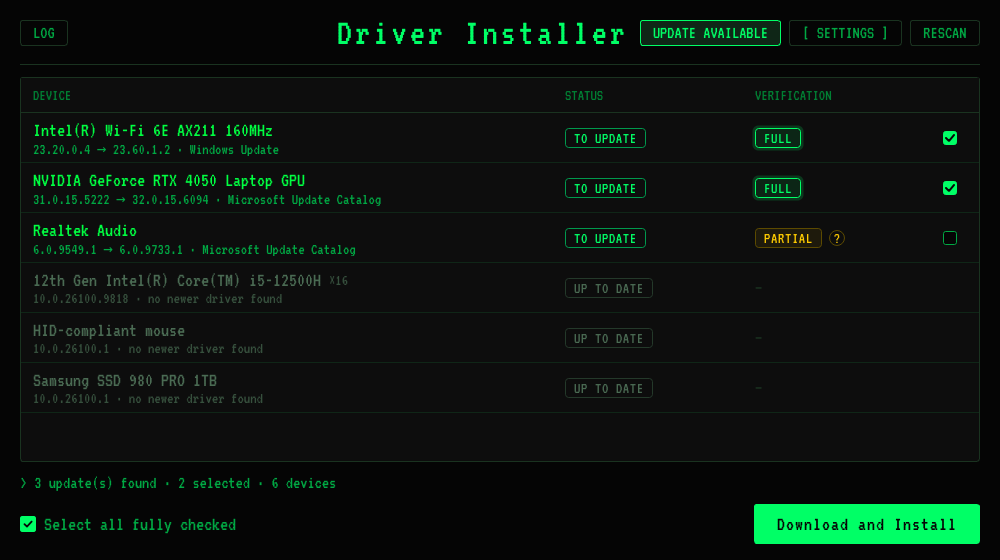
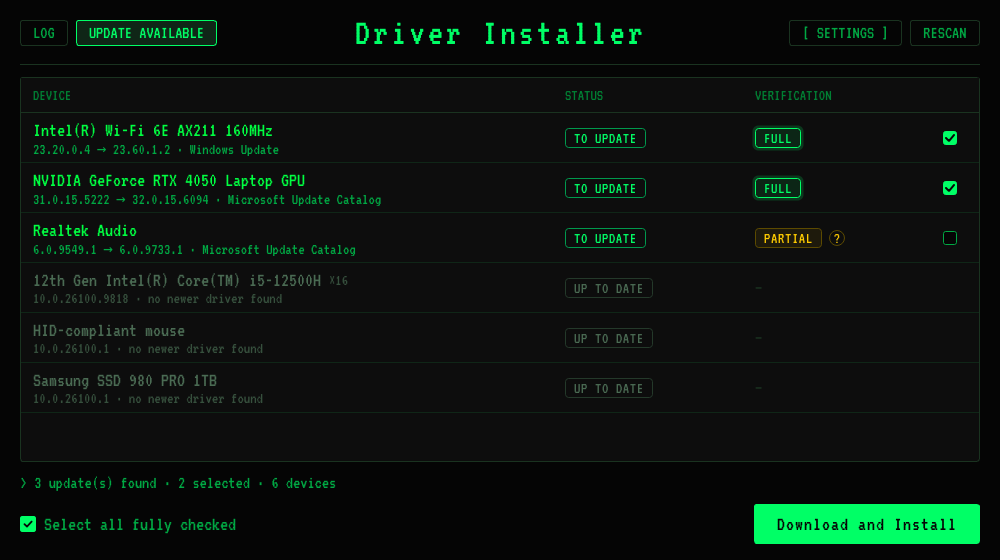
style: move Update available button next to Log in header
UPDATE AVAILABLE now sits on the left, right after LOG, with the same 8 px gap as
[ SETTINGS ] and RESCAN. The header's two side groups get the width of the wider one
(balance_header) and equal stretch, so the title stays centred on the window whether or
not the button is visible. Test for placement, spacing and centring; README screenshot.

Claude-Session: https://claude.ai/code/session_01FNhaAAG19rqQrPkwfX5krX

Changed region(s): [[0.341, 0.0304, 0.806, 0.0911], [0.062, 0.0304, 0.217, 0.0911]]

diff --git a/src/ui/main_window.py b/src/ui/main_window.py
@@ -123,7 +123,7 @@ class MainWindow(QMainWindow):
         layout.setContentsMargins(20, 14, 20, 16)
         layout.setSpacing(12)
 
-        # header: [log]   Driver Installer   [update available] [settings] [rescan]
+        # header: [log] [update available]   Driver Installer   [settings] [rescan]
         header = QGridLayout()
         header.setColumnStretch(0, 1)
         header.setColumnStretch(2, 1)
@@ -139,14 +139,23 @@ class MainWindow(QMainWindow):
         for b in (self.btn_log, self.btn_update, self.btn_settings, self.btn_rescan):
             b.setCursor(Qt.PointingHandCursor)
             b.setFocusPolicy(Qt.TabFocus)          # a click does not leave a focus ring; Tab still reaches it
-        right = QHBoxLayout()
-        right.setSpacing(8)
-        right.addWidget(self.btn_update)
-        right.addWidget(self.btn_settings)
-        right.addWidget(self.btn_rescan)
-        header.addWidget(self.btn_log, 0, 0, Qt.AlignLeft | Qt.AlignVCenter)
+        # Two equally wide side groups with equal stretch keep the title centred on the window,
+        # whether or not UPDATE AVAILABLE is showing (balance_header evens out their widths).
+        self.header_left, self.header_right = QWidget(), QWidget()
+        for side, buttons, align in ((self.header_left, (self.btn_log, self.btn_update), Qt.AlignLeft),
+                                     (self.header_right, (self.btn_settings, self.btn_rescan), Qt.AlignRight)):
+            box = QHBoxLayout(side)
+            box.setContentsMargins(0, 0, 0, 0)
+            box.setSpacing(8)
+            if align == Qt.AlignRight:
+                box.addStretch(1)
+            for b in buttons:
+                box.addWidget(b, 0, Qt.AlignVCenter)
+            if align == Qt.AlignLeft:
+                box.addStretch(1)
+        header.addWidget(self.header_left, 0, 0)
         header.addWidget(self.title, 0, 1)
-        header.addLayout(right, 0, 2, Qt.AlignRight | Qt.AlignVCenter)
+        header.addWidget(self.header_right, 0, 2)
         layout.addLayout(header)
         layout.addWidget(QFrame(objectName="rule"))
 
@@ -242,6 +251,7 @@ class MainWindow(QMainWindow):
         self.btn_rescan.setText(labels["rescan"])
         self.btn_settings.setText(labels["settings"])
         self.btn_update.setText(labels["update"])
+        self.balance_header()
         if self.popover is not None:
             try:
                 self.popover.close()
@@ -281,6 +291,13 @@ class MainWindow(QMainWindow):
 
     def on_update_result(self, newer: bool) -> None:
         self.btn_update.setVisible(bool(newer))
+        self.balance_header()
+
+    def balance_header(self) -> None:
+        """Give both header sides the width of the wider one, so the title stays centred."""
+        width = max(self.header_left.sizeHint().width(), self.header_right.sizeHint().width())
+        self.header_left.setMinimumWidth(width)
+        self.header_right.setMinimumWidth(width)
 
     def open_release_page(self) -> None:
         QDesktopServices.openUrl(QUrl(updates.RELEASES_PAGE))

diff --git a/tests/test_gui.py b/tests/test_gui.py
@@ -667,6 +667,34 @@ def test_header_controls_share_one_style_and_height(window, font_id):
     assert all(b.focusPolicy() == Qt.TabFocus for b in buttons) and win.view.hasFocus()
 
 
+@pytest.mark.parametrize("font_id", ["vt323", "sans"])
+def test_update_button_sits_after_log_and_the_title_stays_centred(window, font_id):
+    app, win, _ = window
+    win.settings_changed({"font": font_id})
+    win.resize(1000, 560)
+    win.show()
+
+    def centre_offset():
+        app.processEvents()
+        title = win.title.mapTo(win, win.title.rect().center()).x()
+        label_width = win.title.fontMetrics().horizontalAdvance(win.title.text())
+        assert win.title.width() >= label_width                        # the title is never squeezed
+        return title - win.width() / 2
+
+    for visible in (False, True, False):
+        win.on_update_result(visible)
+        assert abs(centre_offset()) <= 1, visible
+        assert win.btn_update.isVisible() == visible
+    win.on_update_result(True)
+    app.processEvents()
+    log, upd = win.btn_log.geometry(), win.btn_update.geometry()
+    settings_btn, rescan = win.btn_settings.geometry(), win.btn_rescan.geometry()
+    assert win.btn_update.parent() is win.btn_log.parent() is win.header_left
+    assert upd.left() - log.right() == rescan.left() - settings_btn.right()   # same gap as on the right
+    assert upd.right() < win.title.mapTo(win.header_left.parent(), win.title.rect().topLeft()).x()
+    assert win.btn_settings.parent() is win.header_right
+
+
 def test_row_spinners_line_up_in_one_column_centred_on_the_pill():
     from PySide6.QtCore import QRect, QRectF
     from PySide6.QtGui import QColor, QImage, QPainter

diff --git a/README.md b/README.md
@@ -6,7 +6,7 @@ a dry-run default.
 
 ```
 pip install cryptography PySide6 pytest
-python -m pytest -q                                  # 454 tests, no admin rights or internet needed
+python -m pytest -q                                  # 456 tests, no admin rights or internet needed
 
 python src/cli.py scan                               # hardware vs. manifest (table, or --json)
 python src/cli.py check --notify                     # exit 0 up to date, 1 updates, 2+ error
